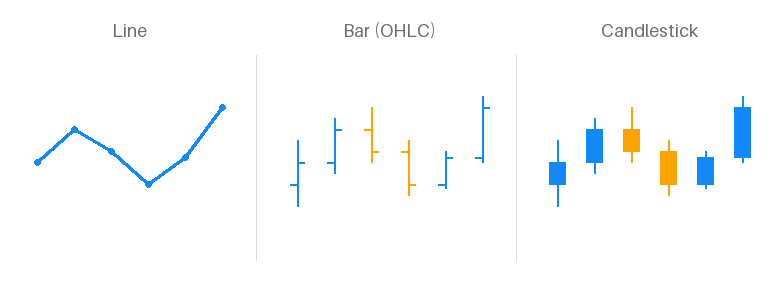
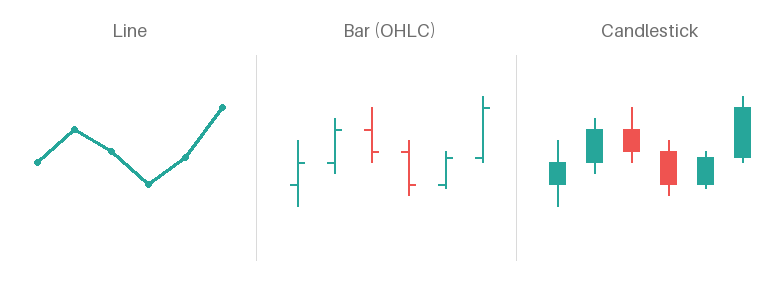
Reading Charts diagram fixes, new color scheme, and weekly auto-publish workflow
Recolor all candle diagrams to teal/red, fix invisible wick labels and
Open/Close ordering on the bearish candle, rework the trendlines hybrid-anchor
diagram (wick for the older rejection high, body for the latest touch, plus a
break), add more indicators to Intro to Indicators with a link to eWavesHarmonics,
and add a weekly scheduled-publish workflow that rebuilds the site via Netlify
build hook so dated posts and merged prop-firms/brokers data go live automatically.

Claude-Session: https://claude.ai/code/session_014NYEMiGsTHsen3AKyMsxvh

diff --git a/content/learn/reading-charts/intro-to-indicators/index.md b/content/learn/reading-charts/intro-to-indicators/index.md
@@ -18,7 +18,11 @@ Every indicator is derived from price, not separate from it, and knowing what ma
 
 {{< figure src="ma-lag.png" caption="A moving average smooths price into a lagging line. Useful for context, always a step behind." >}}
 
-A moving average takes the last N closes and averages them, which smooths out the noise but means the line is always describing where price has already been rather than where it's heading. An oscillator like RSI takes recent gains and losses and turns them into a bounded number, so it can flag when a move looks stretched, but it's still built entirely from the same closes a chart already shows you. Nothing an indicator displays is new information; it's existing price data run through a formula to make one property of it easier to see at a glance.
+A **moving average** takes the last N closes and averages them, which smooths out the noise but means the line is always describing where price has already been rather than where it's heading. An oscillator like **RSI** takes recent gains and losses and turns them into a bounded number, so it can flag when a move looks stretched, but it's still built entirely from the same closes a chart already shows you. Nothing an indicator displays is new information; it's existing price data run through a formula to make one property of it easier to see at a glance.
+
+A few others follow the same pattern. **MACD** is really two moving averages set against each other, a fast one and a slow one, with the gap between them plotted as its own line, so a crossover is just one average catching up to, or falling behind, the other. **Bollinger Bands** wrap a moving average in a band that widens and narrows with recent volatility, so price pushing outside it is a comment on how calm or wild the last few candles have been, not a signal by itself. **ATR** drops direction entirely and just measures how much an instrument has been moving lately, which shows up more in stop-loss sizing than in entry signals. **Stochastic** is RSI's cousin, comparing the close to the recent high-low range instead of to recent gains and losses, but it reads the same way, stretched in one direction usually means the move's due a pause.
+
+I read price action first and lean on one indicator to back it up: **[eWavesHarmonics](/tools/)**, which handles wave counting and target price zones, and also marks fib levels, gaps, and supply and demand zones on the same chart, so I'm not juggling four separate indicators to get the same picture. It's built the same way as everything above, existing price run through a formula, it's just the particular transformation I've found useful for my own setups.
 
 ## Where they genuinely help
 
@@ -36,6 +40,8 @@ Because every indicator lags the closes it's built from, it will always confirm 
 
 - Every indicator is price run through a formula; none of them add information a chart doesn't already contain
 - Moving averages smooth price into a lagging line; oscillators like RSI turn recent gains and losses into a bounded, readable number
+- MACD, Bollinger Bands, ATR, and Stochastic all do the same trick with a different formula: two averages compared, a volatility band, pure movement, or the close against its recent range
+- I keep eWavesHarmonics on my own charts for wave counting, target zones, fib levels, gaps, and supply and demand zones, but it's still just price, transformed
 - Indicators are genuinely useful for confirmation and consistency, spotting what the eye might miss
 - They always lag, because they're built from closes that have already happened
 - Stacking multiple indicators built from the same price data isn't extra confirmation, it's repetition

diff --git a/content/learn/reading-charts/trendlines/index.md b/content/learn/reading-charts/trendlines/index.md
@@ -14,11 +14,19 @@ A trendline is just a line connecting two or more swing points, but drawn carele
 
 ---
 
-## What makes a trendline valid
+## Wicks or bodies as the anchor
 
-{{< figure src="trendline-break.png" caption="An uptrend line connecting two swing lows, holding through several more candles before a genuine break." >}}
+A downtrend line connects a series of falling swing highs, the same way an uptrend line connects rising swing lows, but a single line through two points isn't proof of anything yet, it only starts to mean something once price returns to it and reacts a third time. Two points can always be joined; a third touch that holds is what suggests other traders are watching the same line you are.
 
-An uptrend line connects a series of rising swing lows, and a downtrend line connects a series of falling swing highs, but a single line through two points isn't proof of anything yet, it only starts to mean something once price returns to it and reacts a third time. Two points can always be joined; a third touch that holds is what suggests other traders are watching the same line you are.
+There are different ways to draw that line depending on which point of the candle you anchor to, wick or body, and no single way is the only correct one. Here's the way I do it: anchor the older, already-confirmed swing to its wick, then anchor the newest swing to its body instead.
+
+{{< figure src="trendline-hybrid-anchor.png" caption="Wick for the older, already-confirmed rejection high, body for the most recent touch, holding through a small retest before a genuine break." >}}
+
+The reasoning is that an older swing has had time to sit there and be looked at, it's a real high or low with a decent wick on it, a landmark everyone watching the chart can point to, so there's no reason not to use the exact tip. The newest swing is a different story: it may only be a candle or two old, and there's no guarantee price won't come back and poke a little further before that swing is actually finished forming. Anchoring the fresh end to the body rather than committing to its wick keeps the line a little more conservative until that touch has had time to prove itself the way the older one already has.
+
+*Example: price makes a high, with a long wick rejecting the move to the upside, then continues to drop. Draw a line from the swing high, starting at the high of the candle, to the open of the last bear candle. If price then breaks that line by closing above it, that's a trendline break.*
+
+The same chart shows what happens after: a small bullish candle pokes back up into the line and gets turned away, exactly the kind of retest that confirms the line is still being watched, and then a candle finally closes cleanly above it with real room to spare. That's the difference worth holding onto, several touches that respected the line, followed by one that plainly didn't.
 
 ## Wick pokes versus real breaks
 
@@ -35,6 +43,7 @@ A trendline drawn through a sharp, near-vertical move gets broken quickly almost
 ## Key takeaways
 
 - A trendline connects swing lows (uptrend) or swing highs (downtrend); two points can always be joined, a held third touch is what gives it weight
+- There's more than one valid way to anchor a trendline; I anchor the older, already-confirmed swing to its wick and the newest one to its body
 - A wick poking through and closing back on the original side is a failed test, not a break
 - A real break usually closes beyond the line, ideally with follow-through on the next candle or two
 - Steep trendlines break quickly because the pace behind them was rarely sustainable

diff --git a/content/learn/reading-charts/candlestick-basics/index.md b/content/learn/reading-charts/candlestick-basics/index.md
@@ -16,9 +16,9 @@ Before any pattern makes sense, a single candle has to make sense, because every
 
 ## Four numbers, one shape
 
-{{< figure src="candle-anatomy.png" caption="Same four numbers, two outcomes. Blue closes above open, orange closes below it." >}}
+{{< figure src="candle-anatomy.png" caption="Same four numbers, two outcomes. Teal closes above open, red closes below it." >}}
 
-Each candle covers one fixed slice of time, a minute, an hour, a day, whatever the chart is set to, and it's built from four prices: the open and close, which set the top and bottom of the solid body, and the high and low, which set the thin wicks above and below it. If the close finishes above the open, the body is blue on this site's charts (many platforms use green); if it finishes below, it's orange (or red elsewhere). The colour is just a shortcut for which of those two numbers won.
+Each candle covers one fixed slice of time, a minute, an hour, a day, whatever the chart is set to, and it's built from four prices: the open and close, which set the top and bottom of the solid body, and the high and low, which set the thin wicks above and below it. If the close finishes above the open, the body is teal on this site's charts; if it finishes below, it's red. The colour is just a shortcut for which of those two numbers won.
 
 ## Body versus wick
 
@@ -28,14 +28,14 @@ The body tells you where the candle settled, and the wicks tell you where it wan
 
 ## Reading a run of candles
 
-One candle is a snapshot; a few in a row start telling a story. A string of blue candles with small wicks and rising closes says buyers stayed comfortably in charge the whole way. The same string with a bearish candle ploughing through it and closing near its low says something changed, and that's usually the point on the chart worth paying attention to, not the calm stretch before it.
+One candle is a snapshot; a few in a row start telling a story. A string of teal candles with small wicks and rising closes says buyers stayed comfortably in charge the whole way. The same string with a bearish candle ploughing through it and closing near its low says something changed, and that's usually the point on the chart worth paying attention to, not the calm stretch before it.
 
 ---
 
 ## Key takeaways
 
 - A candle is built from four prices: open and close (the body), high and low (the wicks)
-- Body colour just marks which of open/close was higher; this site uses blue for bullish and orange for bearish
+- Body colour just marks which of open/close was higher; this site uses teal for bullish and red for bearish
 - A long body with small wicks means one side stayed in control the whole period
 - A long wick with a small body means a level was reached and rejected, not accepted
 - Read candles in groups, not isolation, that's where patterns and shifts in control show up
